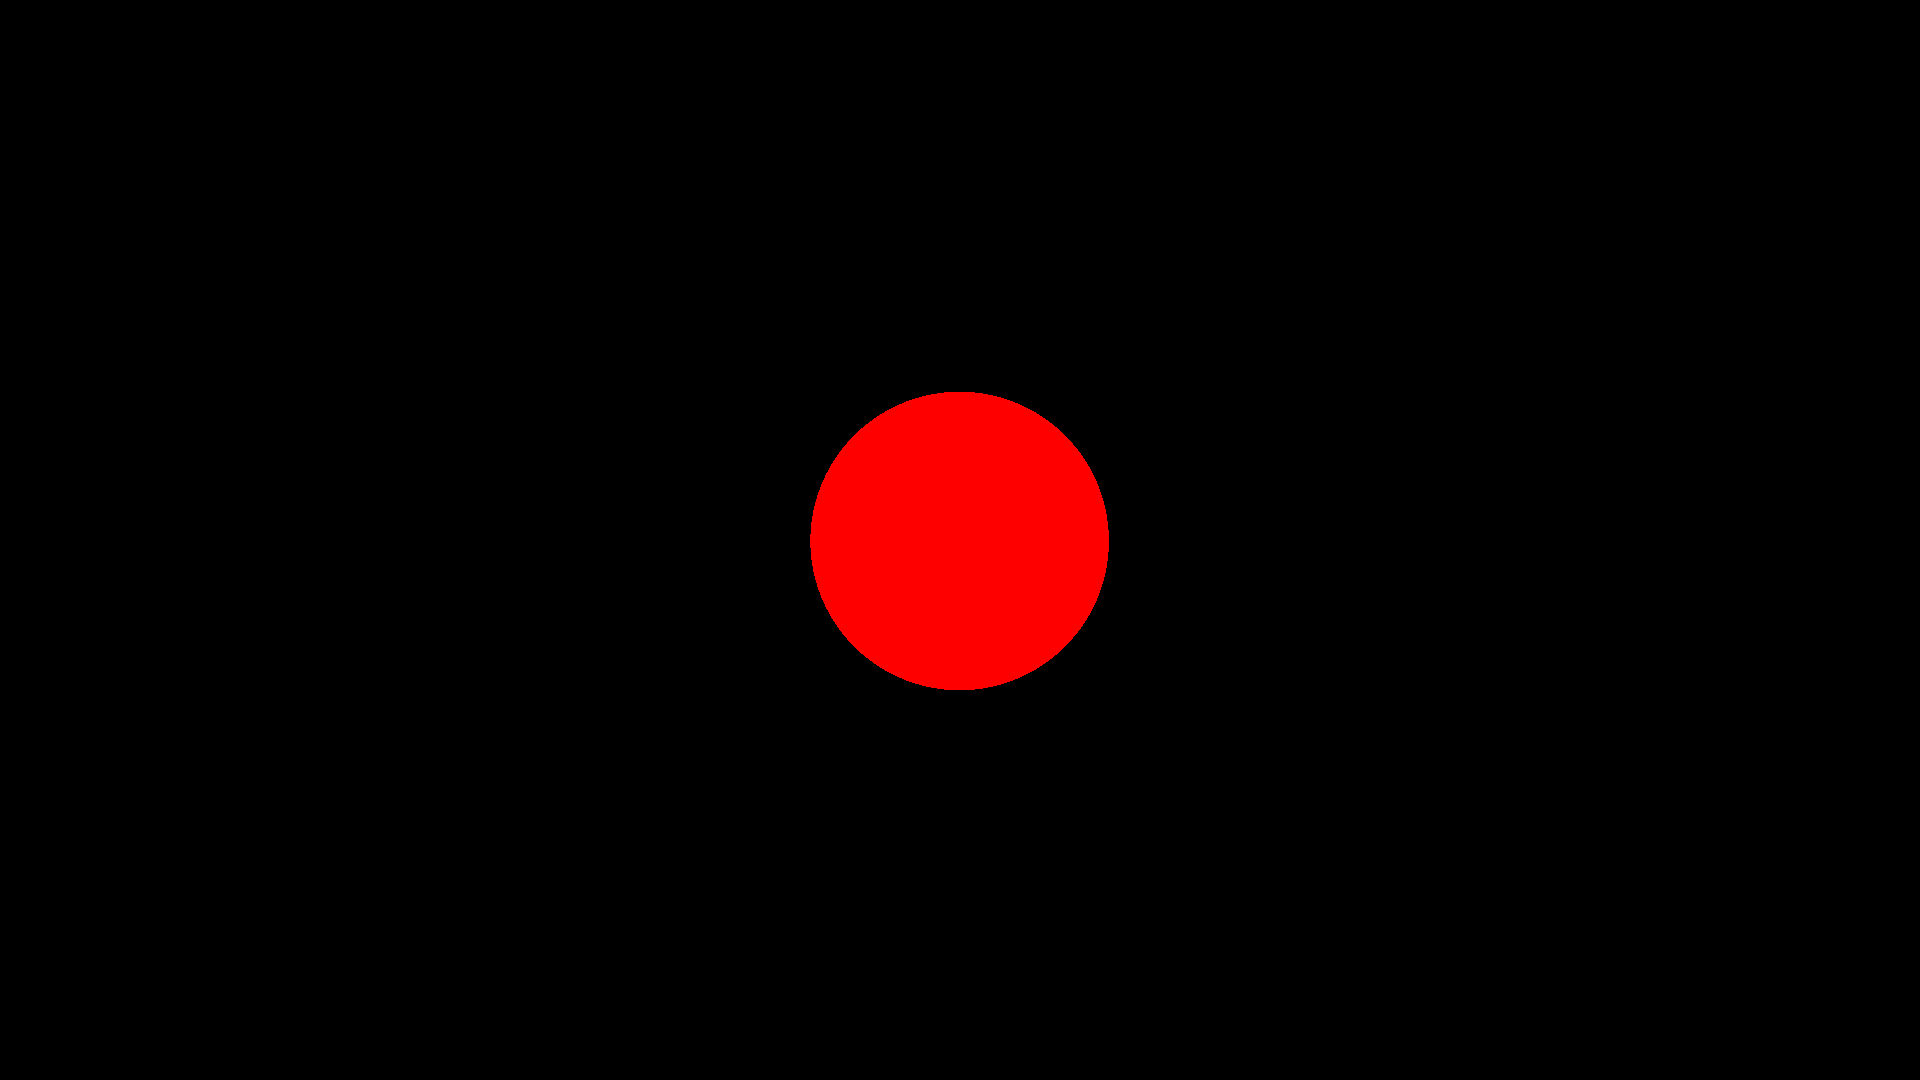
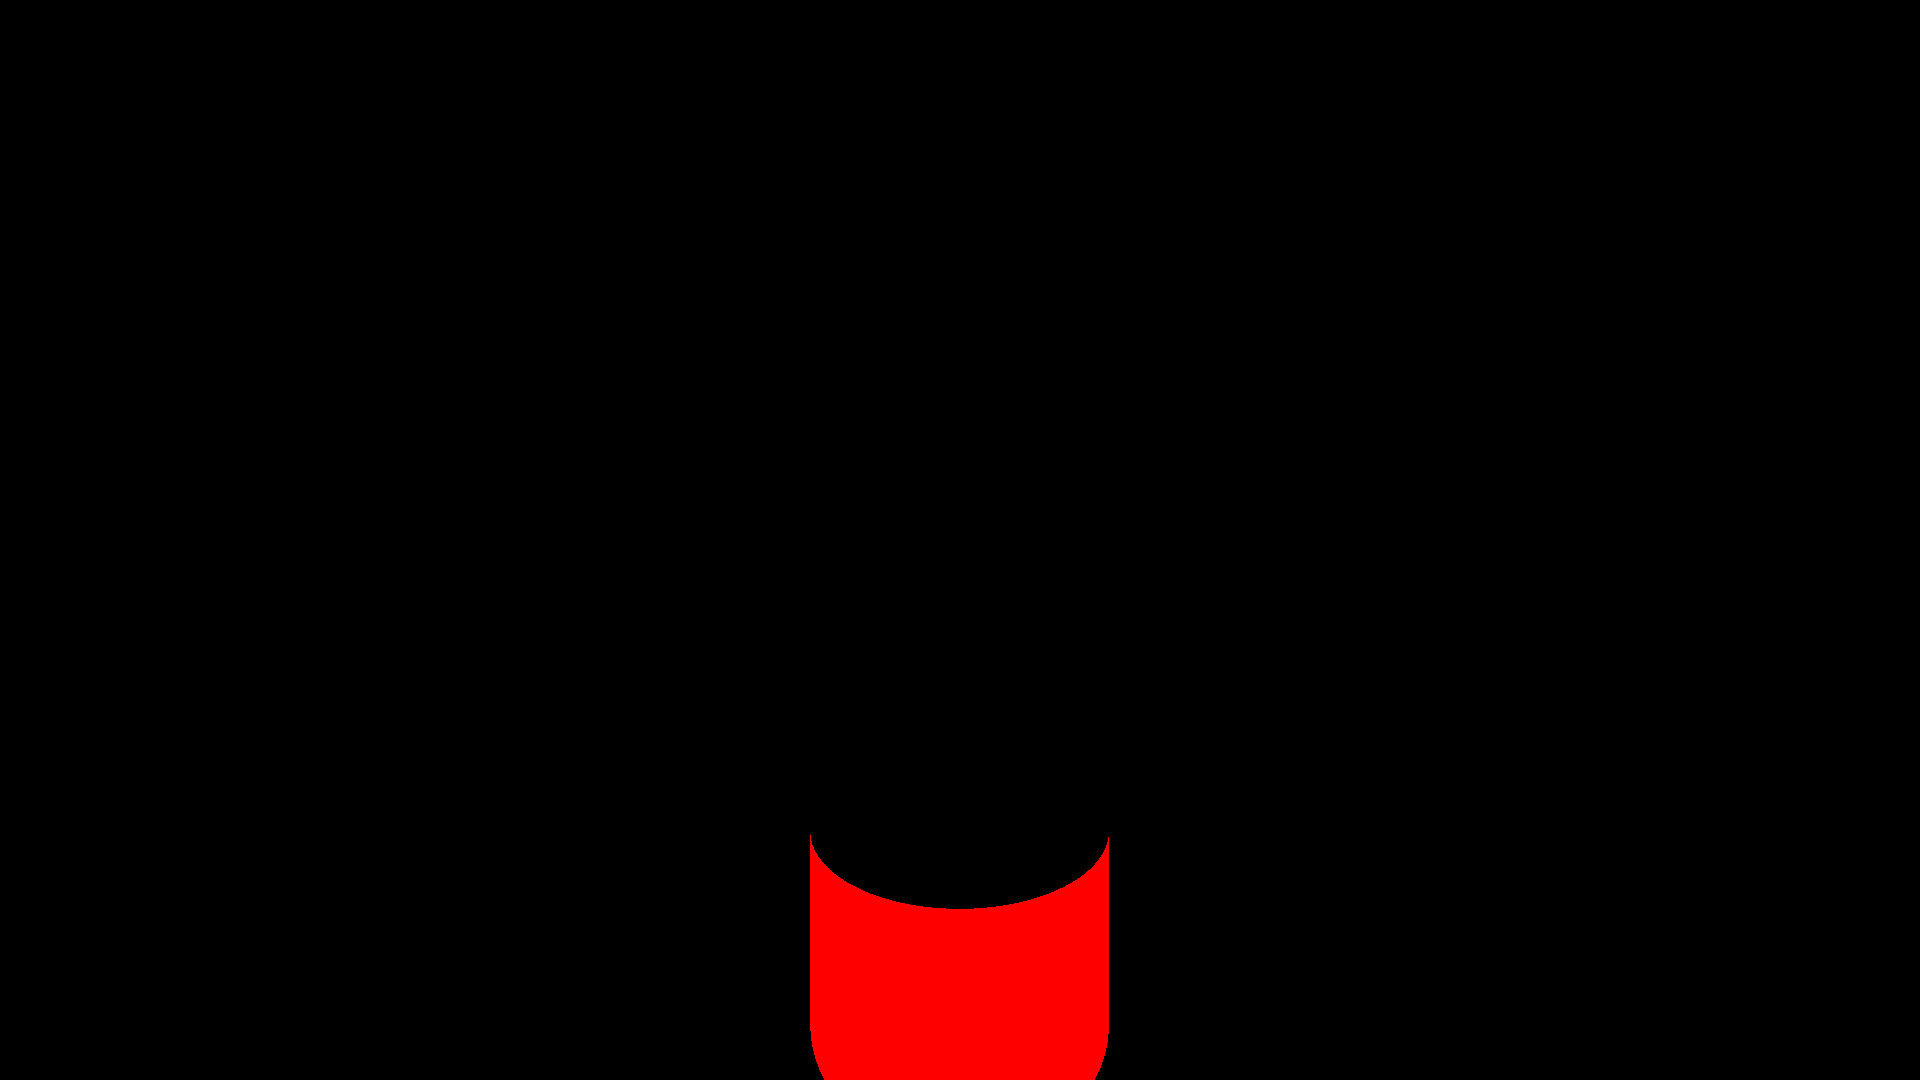
Make intersection with cylinder

Changed region(s): [[0.4062, 0.3667, 0.5938, 0.6417], [0.4062, 0.7944, 0.5938, 1.0]]

diff --git a/src/Solids/Cylinder.cpp b/src/Solids/Cylinder.cpp
@@ -1,0 +1,37 @@
+#include "Cylinder.hpp"
+
+#include <math.h>
+#include "../math.hpp"
+#include "../Log.hpp"
+
+Cylinder::Cylinder(glm::vec3 center, float radius, float height)
+    : _center(center), _radius(radius), _height(height)
+{
+}
+
+bool Cylinder::intersect(Ray ray)
+{
+    auto rayToViewer = ray.origin - _center;
+
+    auto a = math::square(ray.direction.x) + math::square(ray.direction.z);
+    auto b = 2 * (rayToViewer.x * ray.direction.x + rayToViewer.z * ray.direction.z);
+    auto c = math::square(ray.origin.x) + math::square(ray.origin.z) +
+        math::square(_center.x) + math::square(_center.z) - 2 *
+        (ray.origin.x * _center.x + ray.origin.z * _center.z) - math::square(_radius);
+
+    auto t = math::solve(a, b, c);
+    if (t < 0)
+    {
+        // TODO: Check for top intersection
+        return false;
+    }
+
+    auto y = ray.origin.y + t * ray.direction.y;
+
+    if (math::abs(y - _center.y) >= _height / 2)
+    {
+        return false;
+    }
+
+    return true;
+}

diff --git a/src/main.cpp b/src/main.cpp
@@ -2,13 +2,15 @@
 
 #include "Image.hpp"
 #include "Solids/Sphere.hpp"
+#include "Solids/Cylinder.hpp"
 
 int main(void)
 {
     Image image(1080, 1920);
 
     // Solids
-    Sphere sphere(glm::vec3(0.f, 0.f, 1.5f), .4f);
+    //Sphere sphere(glm::vec3(0.f, 0.f, 1.5f), .4f);
+    Cylinder cylinder(glm::vec3(0.f, -1.f, 1.5f), .4f, .5f);
 
     const auto focalLength = 1.f;
 
@@ -19,10 +21,10 @@ int main(void)
             float y = (row / (image.getHeight() - 1.f)) * 2 - 1;
             float x = (column / (image.getHeight() - 1.f)) * 2 - image.aspectRatio();
 
-            Ray ray{ glm::vec3(0.f), glm::vec3(x, y, focalLength) };
+            Ray ray { glm::vec3(0.f), glm::vec3(x, y, focalLength) };
 
             auto rowIndex = (image.getHeight() - row);
-            if (sphere.intersect(ray))
+            if (cylinder.intersect(ray))
             {
                 image[rowIndex * image.getWidth() + column] = { 0xFF, 0x0, 0x0 };
             }

diff --git a/src/math.hpp b/src/math.hpp
@@ -4,9 +4,35 @@
 
 namespace math
 {
+    constexpr auto NO_ROOT = -1;
+
     inline bool hasRoot(float a, float b, float c)
     {
         auto discriminant = b * b - 4 * a * c;
         return discriminant >= 0;
+    }
+
+    inline float square(float x)
+    {
+        return x * x;
+    }
+
+    inline float solve(float a, float b, float c)
+    {
+        auto discriminant = square(b) - 4 * a * c;
+
+        if (discriminant >= 0)
+        {
+            return (-b - sqrt(discriminant)) / (2 * a);
+        }
+        else
+        {
+            return NO_ROOT;
+        }
+    }
+
+    inline float abs(float x)
+    {
+        return x < 0 ? -x : x;
     }
 }

diff --git a/src/Solids/Cylinder.hpp b/src/Solids/Cylinder.hpp
@@ -1,0 +1,18 @@
+#pragma once
+
+#define GLM_SWIZZLE
+
+#include <glm/glm.hpp>
+
+#include "Solid.hpp"
+
+class Cylinder : public Solid
+{
+private:
+    float _radius, _height;
+    glm::vec3 _center;
+
+public:
+    Cylinder(glm::vec3 center, float radius, float height);
+    bool intersect(Ray ray);
+};

diff --git a/src/Log.hpp b/src/Log.hpp
@@ -1,0 +1,6 @@
+
+template <class T>
+void LOG(T var)
+{
+    std::cout << var << std::endl;
+}
